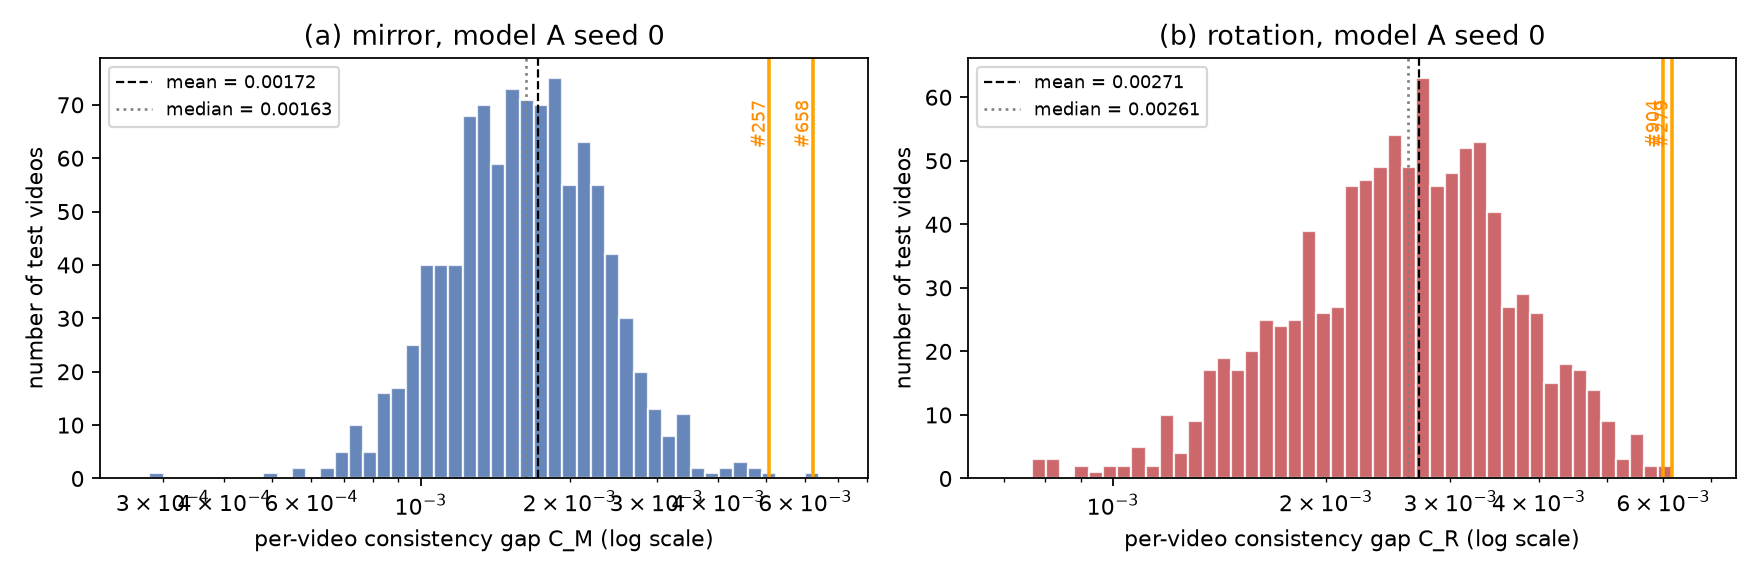
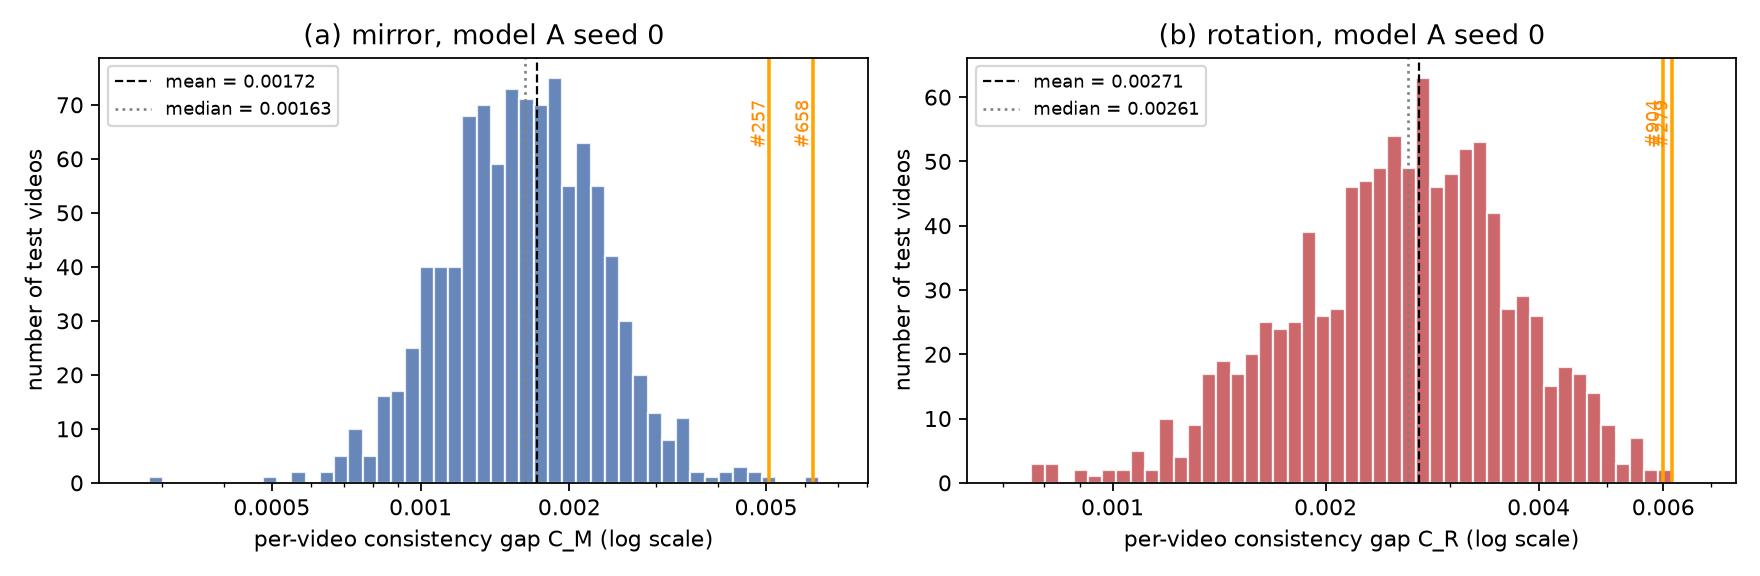
Explain baseline failures and make report figures and GIFs readable

diff --git a/report/style.css b/report/style.css
@@ -6,6 +6,7 @@ h1.title, .titlepage h1 { page-break-before: avoid; border: none; font-size: 22p
 h2 { font-size: 13pt; color: #1f3a5f; margin-top: 18px; margin-bottom: 6px; page-break-after: avoid; }
 h3 { font-size: 11pt; color: #333; margin-top: 12px; margin-bottom: 4px; page-break-after: avoid; }
 p { margin: 5px 0 7px 0; }
+p:has(> strong:first-child) { break-after: avoid; }
 table { border-collapse: collapse; margin: 8px 0 10px 0; font-size: 8.6pt; width: 100%;
         page-break-inside: avoid; }
 th, td { border: 1px solid #c8ccd2; padding: 3px 5px; vertical-align: top; text-align: left; }
@@ -13,6 +14,7 @@ th { background: #eef2f7; }
 tr:nth-child(even) td { background: #fafbfc; }
 figure { margin: 8px 0 12px 0; text-align: center; page-break-inside: avoid; }
 figure img { max-width: 100%; }
+img { max-width: 100%; height: auto; }
 img[src="q1_arch.png"] { max-width: 100%; max-height: 180mm; width: auto !important; height: auto; }
 figcaption { font-size: 8.8pt; color: #333; text-align: left; margin-top: 4px; }
 .caption { font-size: 8.8pt; color: #333; margin-top: -4px; margin-bottom: 10px; }
@@ -24,3 +26,8 @@ blockquote { border-left: 3px solid #9aa7b8; margin: 6px 0; padding: 2px 10px; b
 .titlepage { text-align: left; margin-top: 60px; }
 .pb { page-break-after: always; }
 math { font-size: 105%; }
+@page { size: A4 portrait; }
+@page landscape { size: A4 landscape; margin: 16mm 15mm; }
+.landscape-table { page: landscape; break-before: page; break-after: page; }
+.landscape-table table { font-size: 8pt; table-layout: fixed; }
+.landscape-table th, .landscape-table td { overflow-wrap: anywhere; padding: 4px; }

diff --git a/report/build.py b/report/build.py
@@ -59,6 +59,8 @@ def placeholders():
                           f"device {hw['device']}")
     f2 = ph.get("json:fig2_videos")
     if f2:
+        ph["FIG2_PANELS"] = "\n\n".join(
+            f"![](../figures/fig2_v{i}.png)" for i in f2["fig2_test_positions"])
         ph["FIG2_CAPTION"] = ("Videos " + ", ".join(map(str, f2["fig2_dataset_indices"])) +
                               f" (dataset index). Video {9000 + f2['overlap'][0]} has overlapping digits.")
     for gate, q, k1, k2 in (("phase2_gate", "Q2_5", "Q2_5_COMMIT", "PHASE2_START"),
@@ -77,12 +79,16 @@ def placeholders():
     f3 = ph.get("json:fig3_videos")
     if f3:
         ph["FIG3_GIFS"] = ", ".join(f"`{g}`" for g in f3["gifs"])
+        ph["FIG3_PANELS"] = "\n\n".join(
+            f"![](../figures/fig3_A_{p['T']}_v{p['test_pos']}.png)" for p in f3["picks"])
     f5 = ph.get("json:fig5_video")
     if f5:
         ph["FIG5_CAPTION"] = f"Test video {f5['dataset_idx']} (dataset index)."
     f6 = ph.get("json:fig6")
     if f6:
         ph["FIG6_GIFS"] = ", ".join(f"`{g}`" for g in f6["fig6a_gifs"])
+        ph["FIG6_PANELS"] = "\n\n".join(
+            f"![](../figures/fig6a_final_{p['T']}_v{p['test_pos']}.png)" for p in f6["fig6a_stats"])
     ph.update(json.load(open(os.path.join(REP, "manual.json"))) if os.path.exists(os.path.join(REP, "manual.json")) else {})
     return ph
 
@@ -134,6 +140,7 @@ def render(src):
         pg.goto("file://" + html)
         pg.wait_for_timeout(500)
         pg.pdf(path=os.path.join(REP, "DL4STG_PA2_report.pdf"), format="A4", print_background=True,
+               prefer_css_page_size=True,
                margin={"top": "16mm", "bottom": "16mm", "left": "15mm", "right": "15mm"},
                display_header_footer=True, header_template="<span></span>",
                footer_template='<div style="font-size:8px;width:100%;text-align:center;color:#777">'

diff --git a/scripts/phase2_stress.py b/scripts/phase2_stress.py
@@ -3,6 +3,7 @@ Tables 3 and 4, Figures 3, 4 and 5 (+ Figure 3 GIFs)."""
 import json
 
 import matplotlib.pyplot as plt
+from matplotlib.ticker import FixedLocator, FuncFormatter, NullFormatter
 import numpy as np
 
 from pa2.data import TEST_IDX, default_device, ensure_dir, load_moving_mnist, split
@@ -63,6 +64,10 @@ for a, T, col in [(ax[0], "M", "#4C72B0"), (ax[1], "R", "#C44E52")]:
     bins = np.logspace(np.log10(c.min() * 0.9), np.log10(c.max() * 1.1), 50)
     a.hist(c, bins=bins, color=col, alpha=0.85, edgecolor="white")
     a.set_xscale("log")
+    ticks = [0.0005, 0.001, 0.002, 0.005] if T == "M" else [0.001, 0.002, 0.004, 0.006]
+    a.xaxis.set_major_locator(FixedLocator(ticks))
+    a.xaxis.set_major_formatter(FuncFormatter(lambda x, _: f"{x:g}"))
+    a.xaxis.set_minor_formatter(NullFormatter())
     a.axvline(c.mean(), color="k", ls="--", lw=1, label=f"mean = {fmt(float(c.mean()))}")
     a.axvline(np.median(c), color="gray", ls=":", lw=1.2, label=f"median = {fmt(float(np.median(c)))}")
     for T2, i, v in picks:

diff --git a/pa2/plots.py b/pa2/plots.py
@@ -65,7 +65,7 @@ def four_row_gif(path, X, fX, TX, TY, fTX, TfX, tname, title, scale=1):
         fig = frame_grid(rows, labels, cols, title, cell=0.9, sep_after=5, label_width=1.7)
         frames.append(fig_to_array(fig))
         plt.close(fig)
-    imageio.mimsave(path, frames, duration=0.9, loop=0)
+    imageio.mimsave(path, frames, duration=900, loop=0)
 
 
 def fig_to_array(fig, dpi=110):

diff --git a/WORK_LOG.md b/WORK_LOG.md
@@ -56,3 +56,13 @@ Q2.5 was committed as `2513a26` before any stress test. Phase 2 launched at 2026
 ## Phase 2 complete and Q2.11 prepared
 
 Phase 2 finished normally after the Q2.5 gate. Mean A C_M=0.0017784 and C_R=0.0028035, transformed E_M=0.0225576 and E_R=0.0236072. Mean E(2) across 1x/2x/3x is 0.0185294/0.0454917/0.0533584. Figures 3-5 were visually inspected. Q2.11 contains three genuine prediction sentences using only phase 2 evidence, hashed in results/q2_11_preexperiment_evidence.json. Commit it before phase 3 and preserve it unchanged. Figure 3 GIF metadata exposed a zero-duration compatibility bug; fix playback timing without changing the measurements.
+
+## Phase 3 started
+
+Q2.11 was committed as `fefd535` before any B/C/D training. Phase 3 launched at 2026-10-19T17:29:25.744548+05:00 with PID 40259. It will train B and C on both seeds and all three D candidates on both seeds, 30 epochs each, then select D by validation data and evaluate the final wrappers. Read logs/run_phase3.log and logs/active_run.json before any launch. No optional D+B run is selected yet.
+
+## Phase 2 report and presentation check
+
+Q2.6-Q2.10 are filled from saved metrics and visually inspected cases. Q2.7 selects mirror video 9658 for the final Figure 6 comparison. Fixed a real GIF compatibility error: ImageIO duration is milliseconds in this environment, so 0.9 produced zero-delay frames. All four baseline GIFs now have five unchanged decoded frames with 900 ms delay, and the generator uses 900 for final GIFs. Figure 4 tick labels are now sparse and readable. Report panels now paginate individually, with a global image-width constraint to prevent print clipping and unwanted global print scaling. Tables 5/6 have landscape pages reserved. Rebuilt the draft and visually inspected pages containing Q1 diagrams and phase 2 figures/tables; remaining draft gaps are expected phase 3 outputs, disclosure, and repository URL.
+
+At 2026-10-19T17:34:10.141695+05:00, B seed 0 has 11/30 epochs, mean training epoch 22.48 s. The ten B/C/D runs provisionally need roughly 2-3 hours including validation/evaluation, subject to actual D timings, followed by report completion. Continue the existing PID in logs/active_run.json. No GPU evaluation was run alongside training.

diff --git a/report/q2_part3.md b/report/q2_part3.md
@@ -14,9 +14,13 @@
 
 {{d_selection}}
 
+<div class="landscape-table">
+
 **Table 5.** Models A to D on the test split. Training time is the mean wall-clock time per epoch over the 30 epochs. Inference time is the time to predict the 1,000 original test videos (1×, $t = 1$) at batch 32 under `eval()` and `no_grad()`, timed after the batches are on the device, as the median of three passes after one warm-up pass.
 
 {{table5}}
+
+</div>
 
 ### Q2.12
 
@@ -50,11 +54,15 @@ substituting $g' = gT$ (so $g^{-1} = T g'^{-1}$), which runs over all of $G$ as 
 
 {{FINAL_CHOICE}}
 
+<div class="landscape-table">
+
 **Table 6.** Symmetrised models, same columns as Table 5. Training time is that of the underlying learned model. Inference time includes all eight transformations, forward passes, inverse transformations and the averaging.
 
 {{table6}}
 
-![](../figures/fig6a_final.png)
+</div>
+
+{{FIG6_PANELS}}
 
 <p class="caption"><b>Figure 6(a).</b> Figure 3 repeated with the final model on exactly the same videos. GIFs: {{FIG6_GIFS}}.</p>
 

diff --git a/report/q2_part2.md b/report/q2_part2.md
@@ -24,7 +24,7 @@
 
 {{table3}}
 
-![](../figures/fig3_A.png)
+{{FIG3_PANELS}}
 
 <p class="caption"><b>Figure 3.</b> The two test videos with the largest per-video C<sub>M</sub> and the two with the largest C<sub>R</sub> (model A, seed 0). Rows: (1) X | f(X), (2) T(X) | T(Y), (3) T(X) | f(T(X)), (4) T(X) | T(f(X)). GIFs stepping through the five horizons: {{FIG3_GIFS}}.</p>
 

diff --git a/report/q2_part1.md b/report/q2_part1.md
@@ -52,7 +52,7 @@ This makes the three tests a controlled experiment. Mirror and rotation hold the
 
 {{table2}}
 
-![](../figures/fig2_baseline_examples.png)
+{{FIG2_PANELS}}
 
 <p class="caption"><b>Figure 2.</b> Model A (seed 0) on three test videos at 1×, $t = 1$: input frames 1-5, predictions for frames 6-10, and ground truth frames 6-10. {{FIG2_CAPTION}}</p>
 
